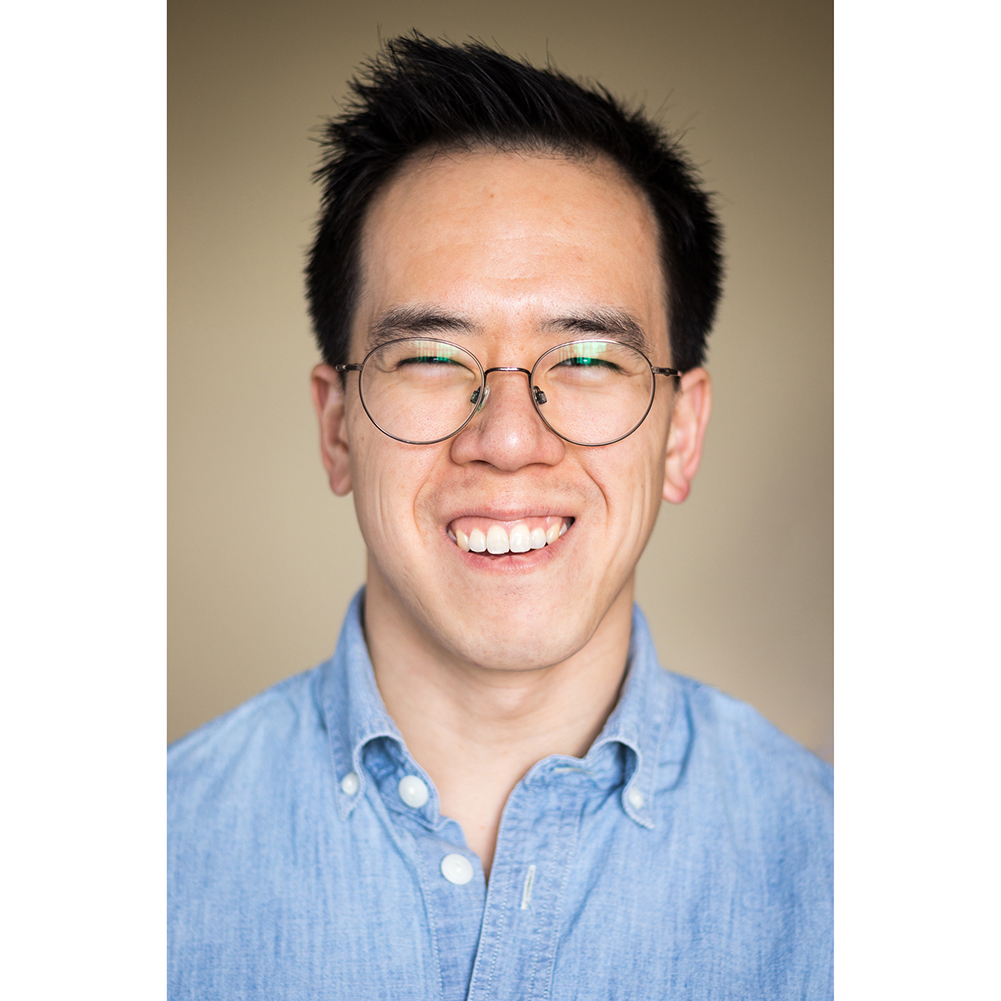
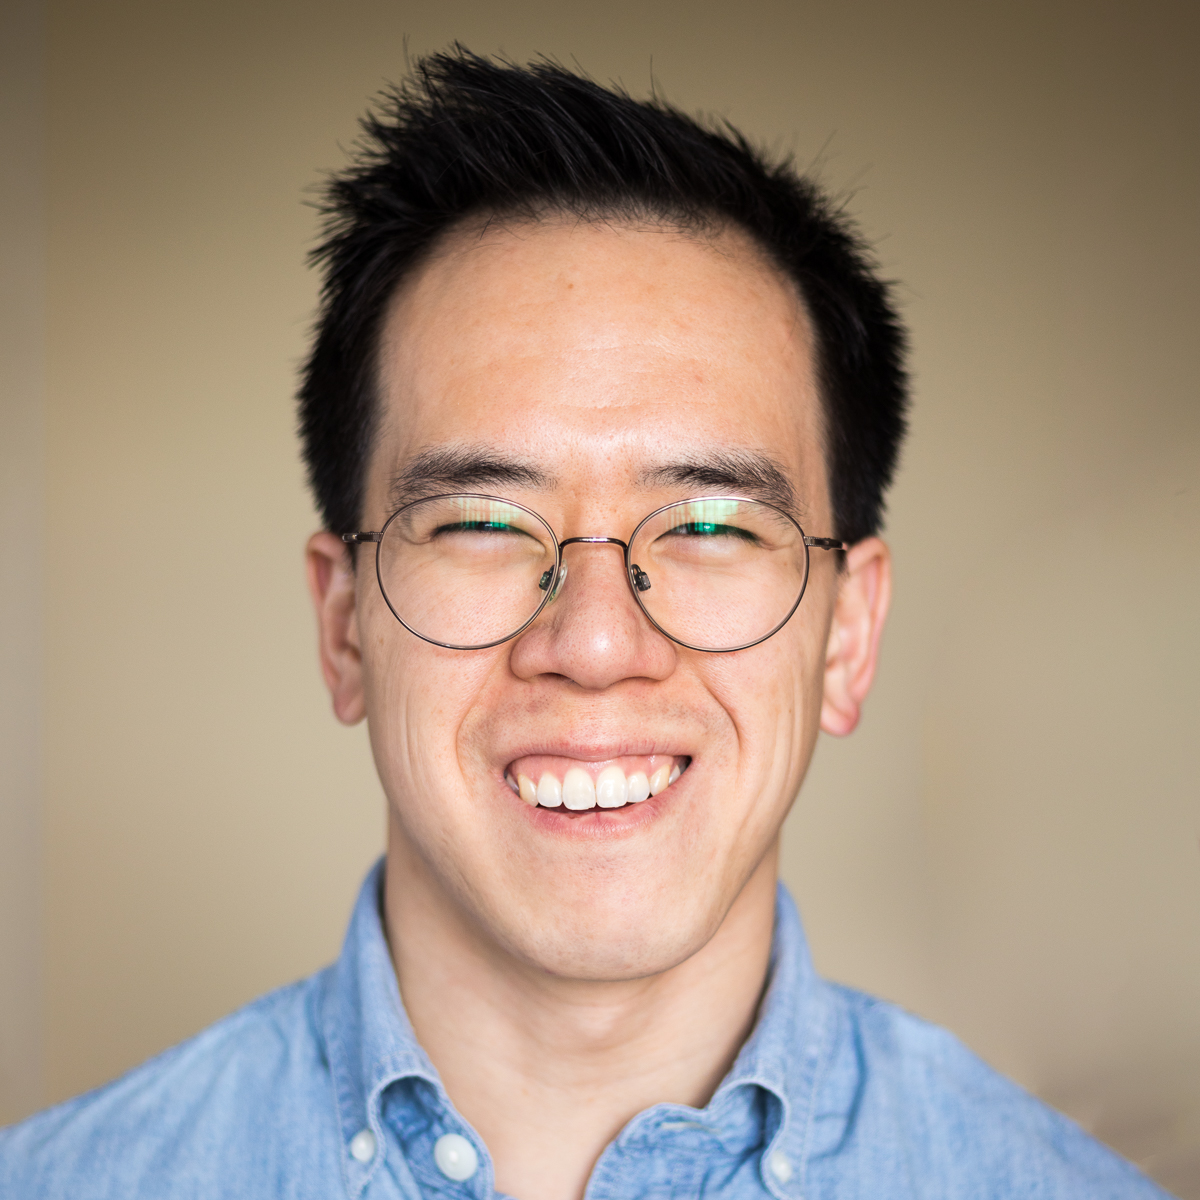
Change profile pic and fix typo in index

diff --git a/index.html b/index.html
@@ -66,9 +66,9 @@
         </div>
         
         <p class="lead mb-5">Aaron Washington Chen is a data scientist currently contributing to 
-          <a href="https://medium.com/analytics-vidhya">Analytics Vidhya!</a>! Outside of data science, 
+          <a href="https://medium.com/analytics-vidhya">Analytics Vidhya</a>! Outside of data science, 
           he has a Ph. D. in Chemical Engineering; loves traveling, food, and pets; and runs a small 
-          photography business called <a href="https://www.composedandfocusedstudios.com">Composed and Focused Studios!</a> 
+          photography business called <a href="https://www.composedandfocusedstudios.com">Composed and Focused Studios</a> 
           and you can find me at various places with the icons below.</p>
         <div class="social-icons">
           <a href="https://www.linkedin.com/in/aaronwchen/">
